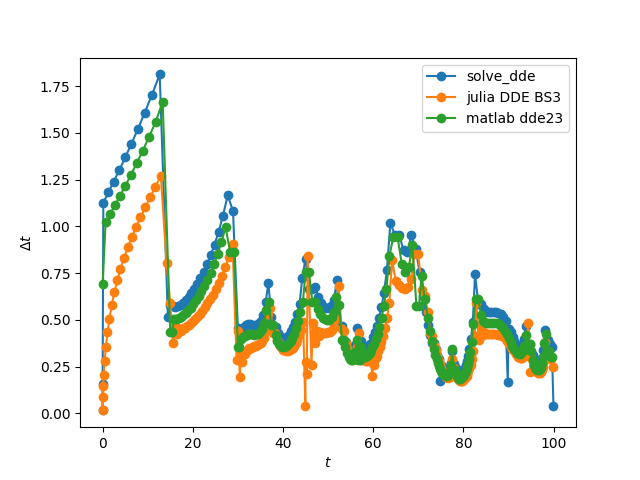
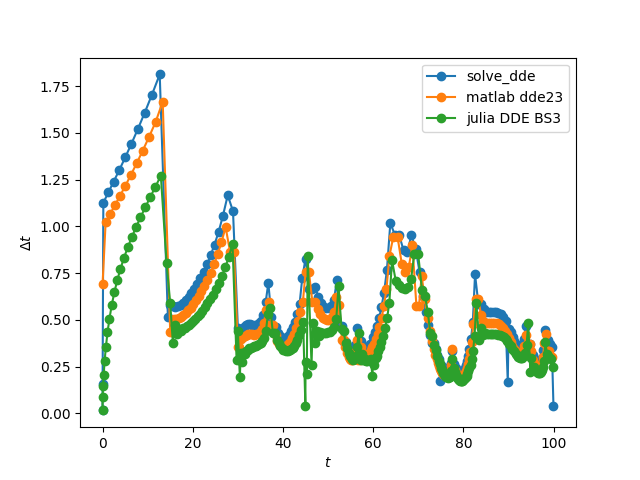
improvment of README and graphics

Changed region(s): [[0.25, 0.4688, 0.875, 0.875], [0.1562, 0.1875, 0.2812, 0.875], [0.7188, 0.1875, 0.875, 0.2812]]

diff --git a/DDEs_models_test/mackeyGlass.py b/DDEs_models_test/mackeyGlass.py
@@ -23,18 +23,12 @@ y0 = [1.0]
 def h(t):
     return [1.]
 
-t1 = time.time()
 sol23 = solve_dde(fun, tspan, delays, y0, h, method='RK23', atol=atol, rtol=rtol)
-t2 = time.time()
-print('for RK23 Elapsed time is %s seconds' % (t2-t1))
 t = sol23.t
 y = sol23.y[0,:]
 yp = sol23.yp[0,:]
 
-t1 = time.time()
 sol45 = solve_dde(fun, tspan, delays, y0, h, method='RK45', atol=atol, rtol=rtol)
-t2 = time.time()
-print('for RK45 Elapsed time is %s seconds' % (t2-t1))
 t45 = sol45.t
 y45 = sol45.y[0,:]
 yp45 = sol45.yp[0,:]
@@ -62,33 +56,36 @@ err_mat_ju = np.abs(y_mat_ju - y_ju)/y_ju
 err_dev_ju = np.abs(y_dev_ju - y_ju)/y_ju
 
 plt.figure()
-plt.plot(y,yp)
+plt.plot(y,yp,'o', label='solve_dde')
+plt.plot(y_mat,yp_mat,label='dde23')
 plt.xlabel('y')
 plt.ylabel('yp')
+plt.legend()
 plt.savefig('figures/mackeyGlass/phase')
+plt.savefig('phase')
 
 plt.figure()
-plt.plot(t_mat, y_mat, 'r o', label='matlab y(t)')
-plt.plot(t_ju, y_ju, 'g s',label='julia y(t)')
-plt.plot(t, y, 'b *',label='scipy-dev y(t)')
+plt.plot(t, y, '*',label='solve_dde')
+plt.plot(t_mat, y_mat, 'o', label='dde23')
+plt.plot(t_ju, y_ju, 's',label='julia BS3')
 plt.xlabel(r'$t$')
 plt.ylabel(r'$y$')
 plt.legend()
 plt.savefig('figures/mackeyGlass/y')
 
 plt.figure()
-plt.plot(t_ju, err_mat_ju, label='err mat / ju')
-plt.plot(t_ju, err_dev_ju, 'o', label='err dev / ju')
+plt.plot(t_ju, err_mat_ju, label='dde23 / julia BS3')
+plt.plot(t_ju, err_dev_ju, 'o', label='solve_dde / julia BS3')
 plt.legend()
 plt.xlabel(r'$t$')
 plt.ylabel(r'$\varepsilon$')
-plt.title('error relative')
+plt.title('relatove errors')
 plt.savefig('figures/mackeyGlass/error.png')
 
 plt.figure()
 plt.plot(t[:-1],np.diff(t),'-o',label='solve_dde')
-plt.plot(t_ju[:-1],np.diff(t_ju),'-o',label='julia DDE BS3')
 plt.plot(t_mat[:-1],np.diff(t_mat),'-o',label='matlab dde23')
+plt.plot(t_ju[:-1],np.diff(t_ju),'-o',label='julia DDE BS3')
 plt.legend()
 plt.xlabel(r'$t$')
 plt.ylabel(r'$\Delta t$')

diff --git a/DDEs_models_test/divergingDDE.py b/DDEs_models_test/divergingDDE.py
@@ -21,13 +21,11 @@ def h(t):
     return [1]
 
 sol23 = solve_dde(fun, tspan, delays, y0, h, method='RK23', atol=atol, rtol=rtol)
-print('for RK23 Elapsed time is %s seconds' % (t2-t1))
 t = sol23.t
 y = sol23.y[0,:]
 yp = sol23.yp[0,:]
 
 sol45 = solve_dde(fun, tspan, delays, y0, h, method='RK45', atol=atol, rtol=rtol)
-print('for RK45 Elapsed time is %s seconds' % (t2-t1))
 t45 = sol45.t
 y45 = sol45.y[0,:]
 yp45 = sol45.yp[0,:]
@@ -73,7 +71,7 @@ err_mat = np.abs(np.abs(y_mat - ana_mat) / ana_mat)
 
 plt.figure()
 plt.plot(t, ana_spdev, label='analytic')
-plt.plot(t, y, label='solve_dde')
+plt.plot(t, y, label='solve_dde RK23')
 plt.plot(t_mat, y_mat, 'o', label='matlab dde23')
 plt.xlabel(r'$t$')
 plt.xlabel(r'$y$')
@@ -81,24 +79,27 @@ plt.legend()
 plt.savefig('figures/solDiv/y')
 
 plt.figure()
-plt.plot(t, err_spdev, label='scipy-dev err23')
-plt.plot(t45, err_spdev45, label='scipy-dev err45')
+plt.plot(t, err_spdev, label='solve_dde RK23')
+plt.plot(t45, err_spdev45, label='solve_dde RK45')
 plt.plot(t_mat, err_mat, label="matlab err")
 plt.xlabel(r'$t$')
 plt.ylabel(r'$\varepsilon$')
 plt.legend()
+plt.title('relative errors')
 plt.savefig('figures/solDiv/error')
 
 plt.figure()
-plt.plot(y, yp, label='scipy-dev')
-plt.plot(y_mat, yp_mat, 'o', label='matlab')
+plt.plot(y, yp, label='solve_dde RK23')
+plt.plot(y_mat, yp_mat, 'o', label='dde23')
 plt.xlabel('y')
 plt.ylabel('dydt')
+plt.legend()
 plt.title('phase graph')
 
 plt.figure()
-plt.plot(t[:-1],np.diff(t),'-o',label='dt scipy-dev')
-plt.plot(t_mat[:-1],np.diff(t_mat),'-o',label='dt matlab solver')
+plt.plot(t[:-1],np.diff(t),'-o',label='solve_dde RK23')
+plt.plot(t45[:-1],np.diff(t45),'-o',label='solve_dde RK45')
+plt.plot(t_mat[:-1],np.diff(t_mat),'-o',label='dde23')
 plt.legend()
 plt.ylabel(r'$\Delta t$')
 plt.xlabel(r'$t$')

diff --git a/DDEs_models_test/2delays.py b/DDEs_models_test/2delays.py
@@ -46,19 +46,20 @@ mask = np.abs(y_mat) > eps
 err_dev_mat = np.abs(np.abs(y_dev_mat[mask] - y_mat[mask]) / y_mat[mask])
 
 plt.figure()
-plt.plot(t, y, label='scipy-dev y(t)')
-plt.plot(t_mat, y_mat, 'o', label='matlab y(t)')
+plt.plot(t, y, label='solve_dde')
+plt.plot(t_mat, y_mat, 'o', label='dde23')
 plt.xlabel(r'$t$')
-plt.xlabel(r'$y$')
+plt.xlabel(r'$y(t)$')
 plt.legend()
-plt.savefig('figures/solConv/y')
+plt.savefig('figures/2delays/y')
 
 plt.figure()
-plt.plot(t_mat[mask], err_dev_mat, label='err solve_dde/dde23')
+plt.plot(t_mat[mask], err_dev_mat, label='solve_dde/dde23')
 plt.legend()
 plt.xlabel(r'$t$')
 plt.ylabel(r'$\varepsilon$')
-plt.savefig('figures/solConv/error')
+plt.title('relative errors')
+plt.savefig('figures/2delays/error')
 
 # plt.figure()
 # plt.plot(y, yp, label='scipy-dev')
@@ -67,12 +68,12 @@ plt.savefig('figures/solConv/error')
 # plt.ylabel('dydt')
 # plt.title('phase graph')
 
-# plt.figure()
-# plt.plot(t[:-1],np.diff(t),'-o',label='dt scipy-dev')
-# plt.plot(t_mat[:-1],np.diff(t_mat),'-o',label='dt matlab solver')
-# plt.legend()
-# plt.ylabel(r'$\Delta t$')
-# plt.xlabel(r'$t$')
-# plt.savefig('figures/solConv/dt')
+plt.figure()
+plt.plot(t[:-1],np.diff(t),'-o',label='solve__dde')
+plt.plot(t_mat[:-1],np.diff(t_mat),'-o',label='dde23')
+plt.legend()
+plt.ylabel(r'$\Delta t$')
+plt.xlabel(r'$t$')
+plt.savefig('figures/2delays/dt')
 plt.show()
 

diff --git a/DDEs_models_test/virusEvent.py b/DDEs_models_test/virusEvent.py
@@ -87,7 +87,7 @@ plt.plot(t,y2,'g',label='y2')
 plt.plot(sol23.t_events[0],y0_e,'s r', markersize=10)
 plt.plot(sol23.t_events[1],y1_e,'s b', markersize=10)
 plt.plot(sol23.t_events[2],y2_e,'s g', markersize=10)
-plt.plot(t0_e_mat,y0_e_mat,'C1 o',label='matlab')
+plt.plot(t0_e_mat,y0_e_mat,'C1 o',label='dde23 t_events')
 plt.plot(t1_e_mat,y1_e_mat,'C1 o')
 plt.plot(t2_e_mat,y2_e_mat,'C1 o')
 plt.xlabel(r'$t$')

diff --git a/README.md b/README.md
@@ -75,6 +75,16 @@ y(t<t0) = y_0 \
 ![](DDEs_models_test/figures/solDiv/y.png)
 ![](DDEs_models_test/figures/solDiv/dt.png)
 
+### 2 delays 
+
+y'(t) = -y(t-1/3) - y(t-3/2)\
+y(t0)=y_0 \
+y(t<t0) = y_0 \
+![](DDEs_models_test/figures/2delays/error.png)
+![](DDEs_models_test/figures/2delays/y.png)
+![](DDEs_models_test/figures/2delays/dt.png)
+
+
 ### rocking suitcase model
 
 ```py
